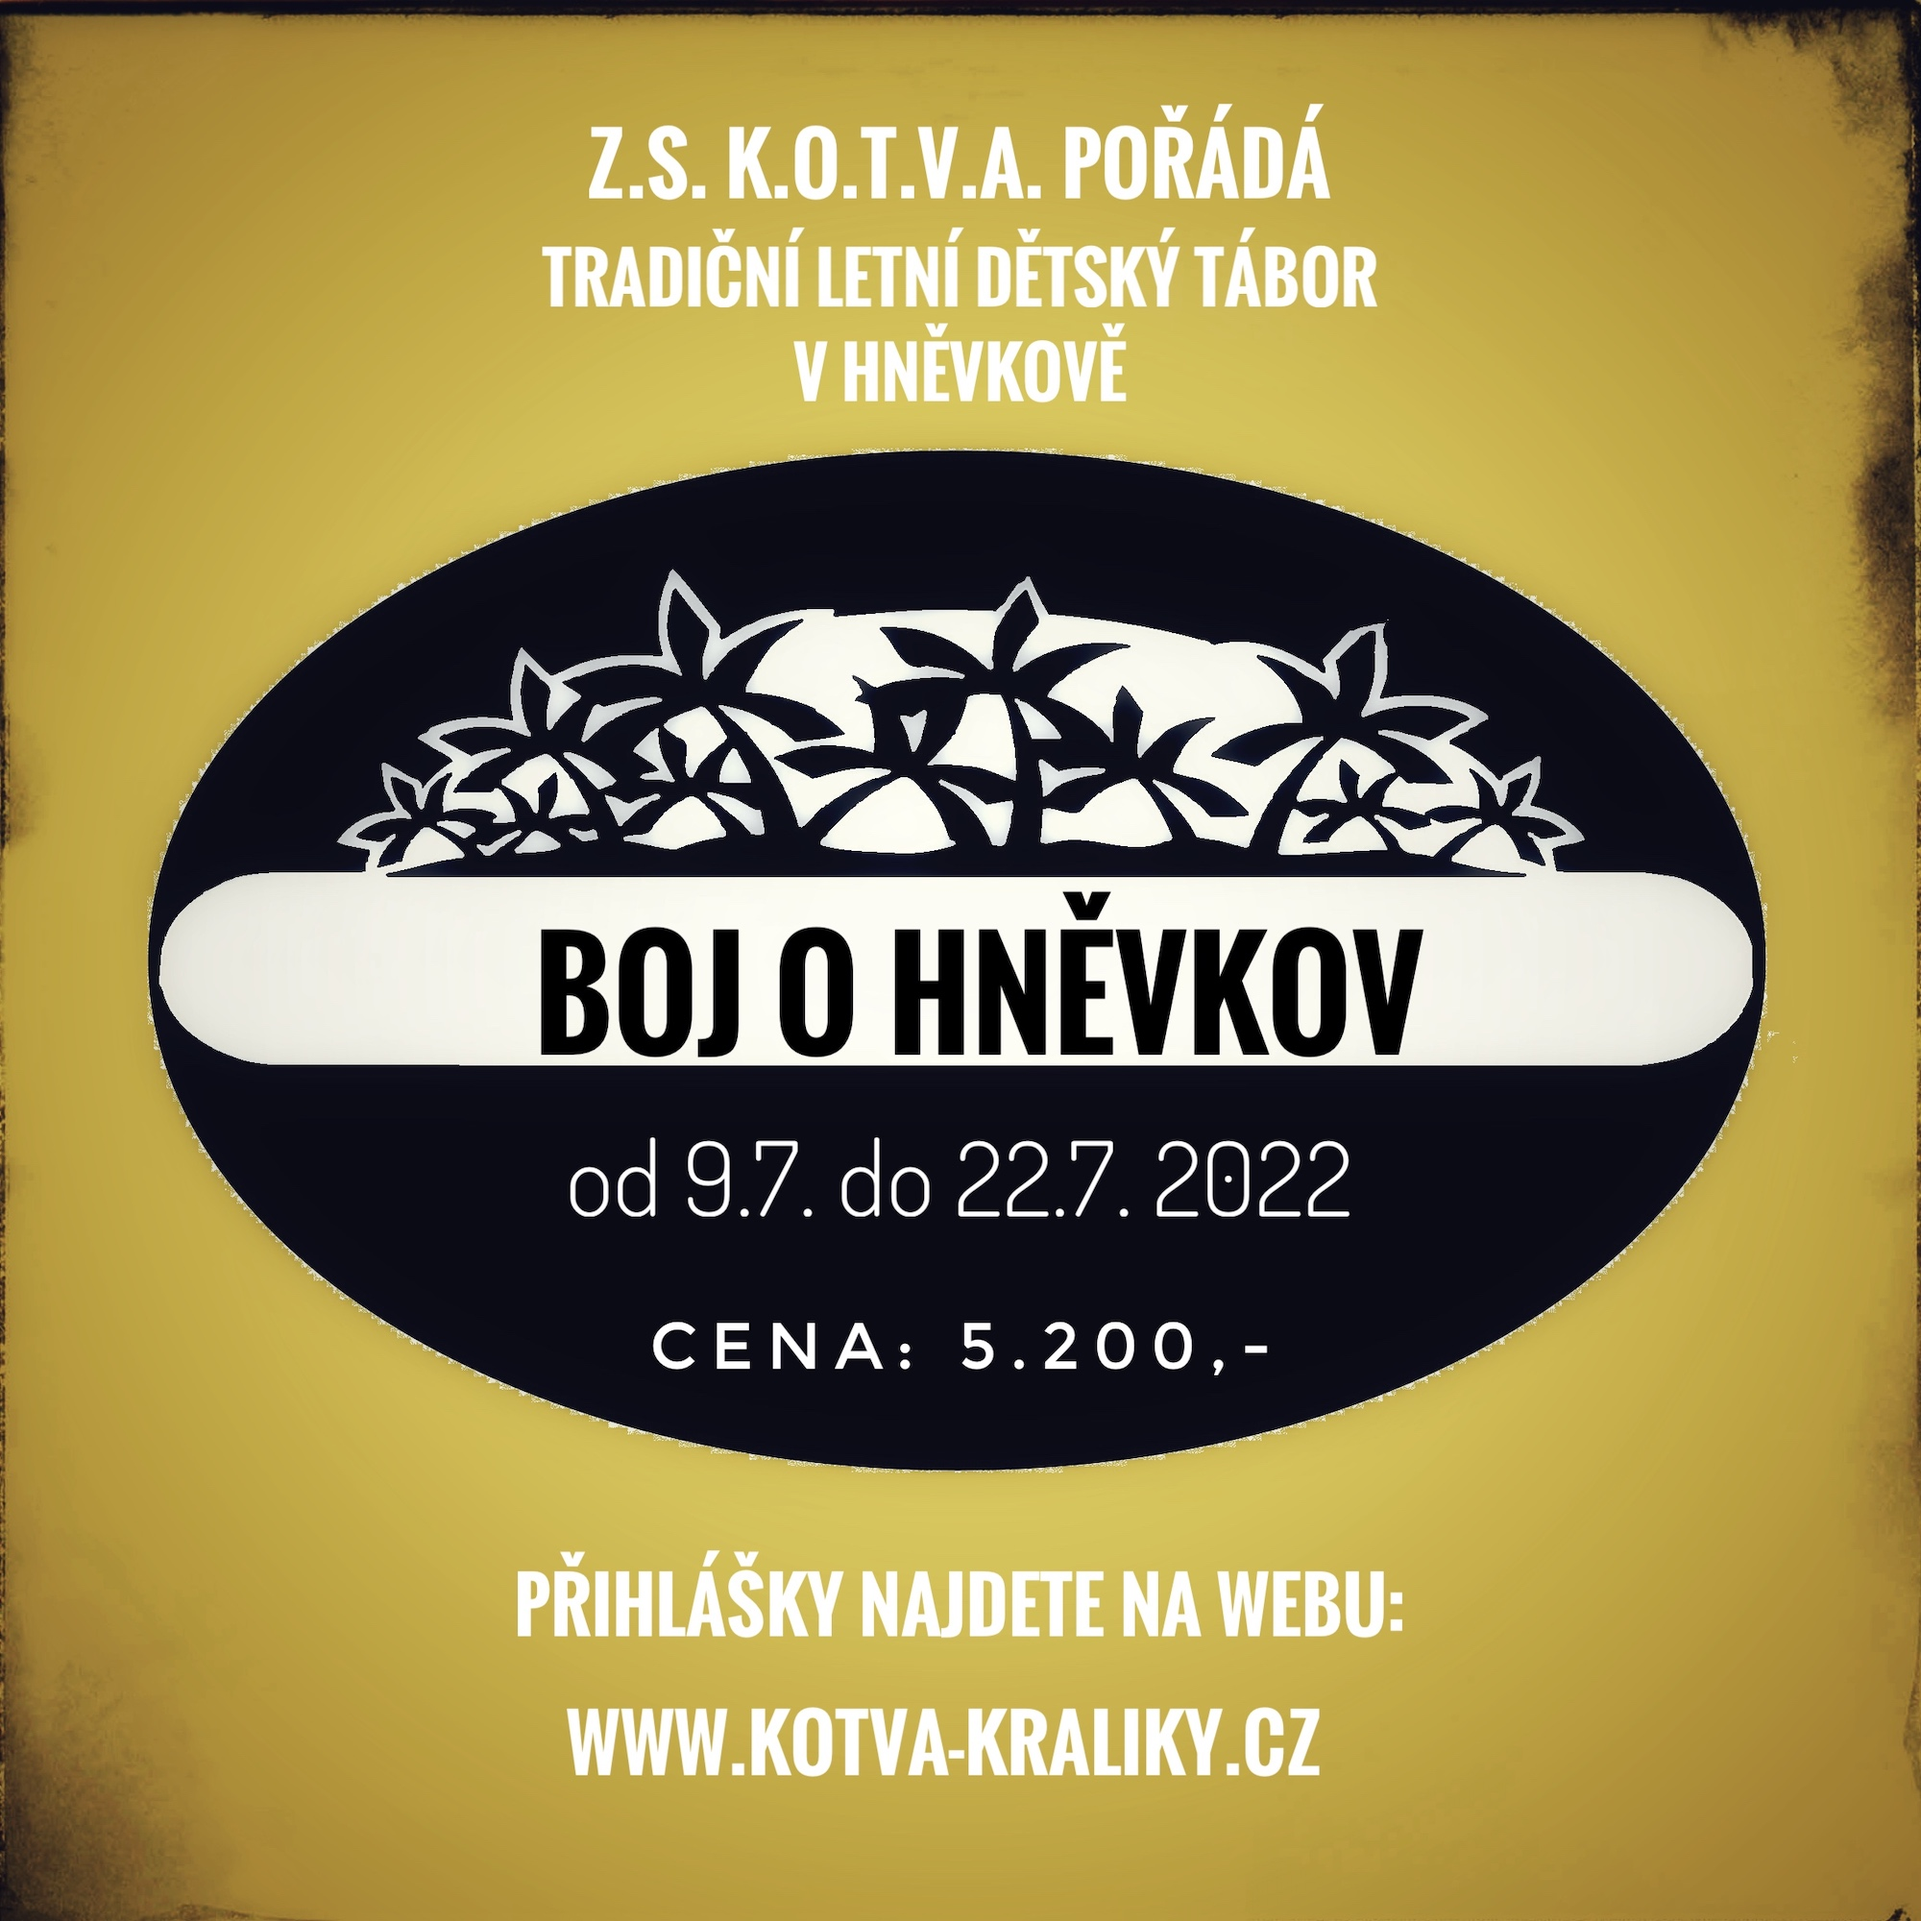
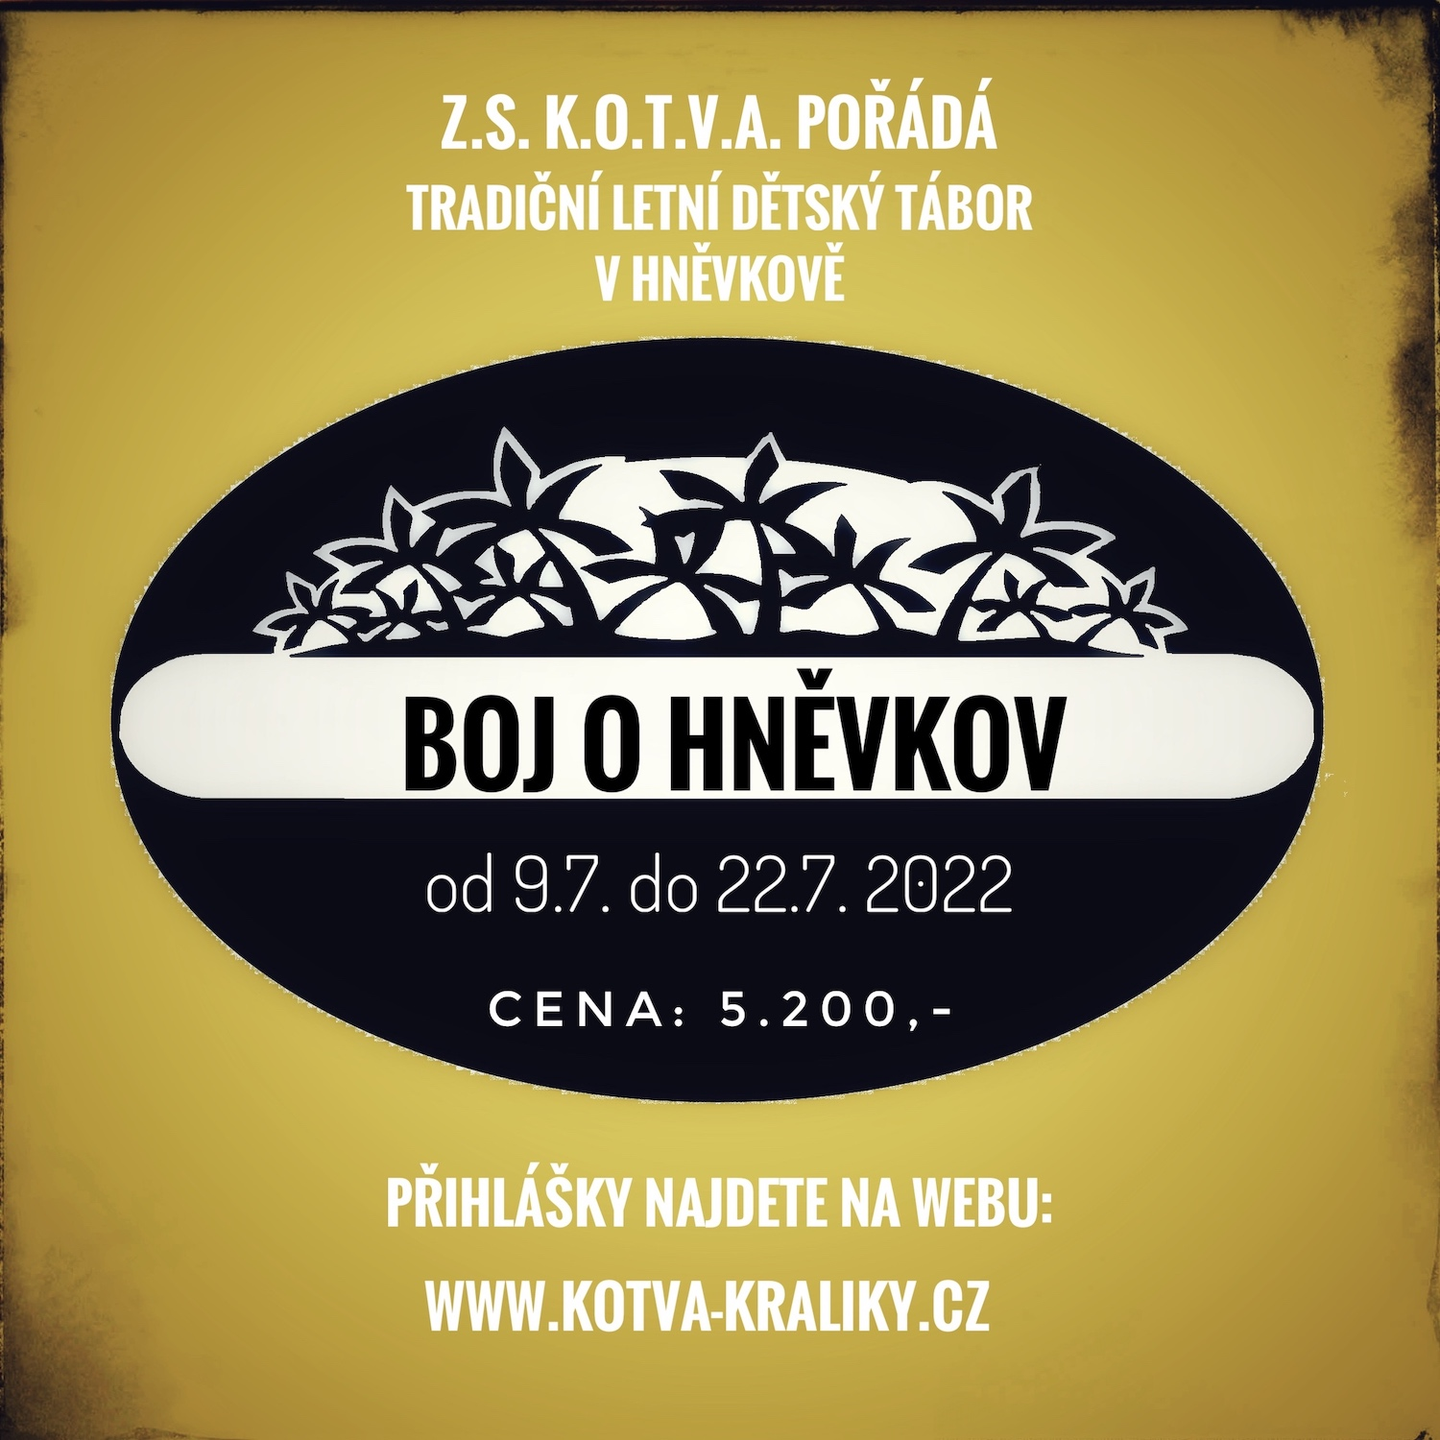
Updated tabs2 image and posters component

Changed region(s): [[0.46, 0.5213, 0.4907, 0.552]]

diff --git a/src/app/pages/Camps/posters.jsx b/src/app/pages/Camps/posters.jsx
@@ -22,8 +22,8 @@ const posters = [
       year: '2022',
       title: 'Boj o Hněvkov.',
       info: 'Buch buch buch… Slyšíte, jak v dálce znějí bubny? Připlouváme k ostrovu, který je nejspíše obsazen domorodými kmeny. V soubojích s nimi mohou obstát jen ti nejsilnější, nechytřejší a nejobratnější z vás. Máš dostatek odvahy na souboje mezi jednotlivými kmeny? Dokážeš s rozvahou a chladnou hlavou vyluštit šifry, skládačky a zároveň ze sebe vydat veškerou energii? Dokážeš přežít v přírodě a zvládneš okamžité změny počasí? Pak je letošní tábor právě pro tebe! Neváhej a přihlas se na nejlepší tábor letošních prázdnin. Boj o Hněvkov právě začíná…',
-      width: '2000',
-      height: '2000'
+      width: '1500',
+      height: '1500'
     },
     {
       imageUrl: '/tabs3.png',        
